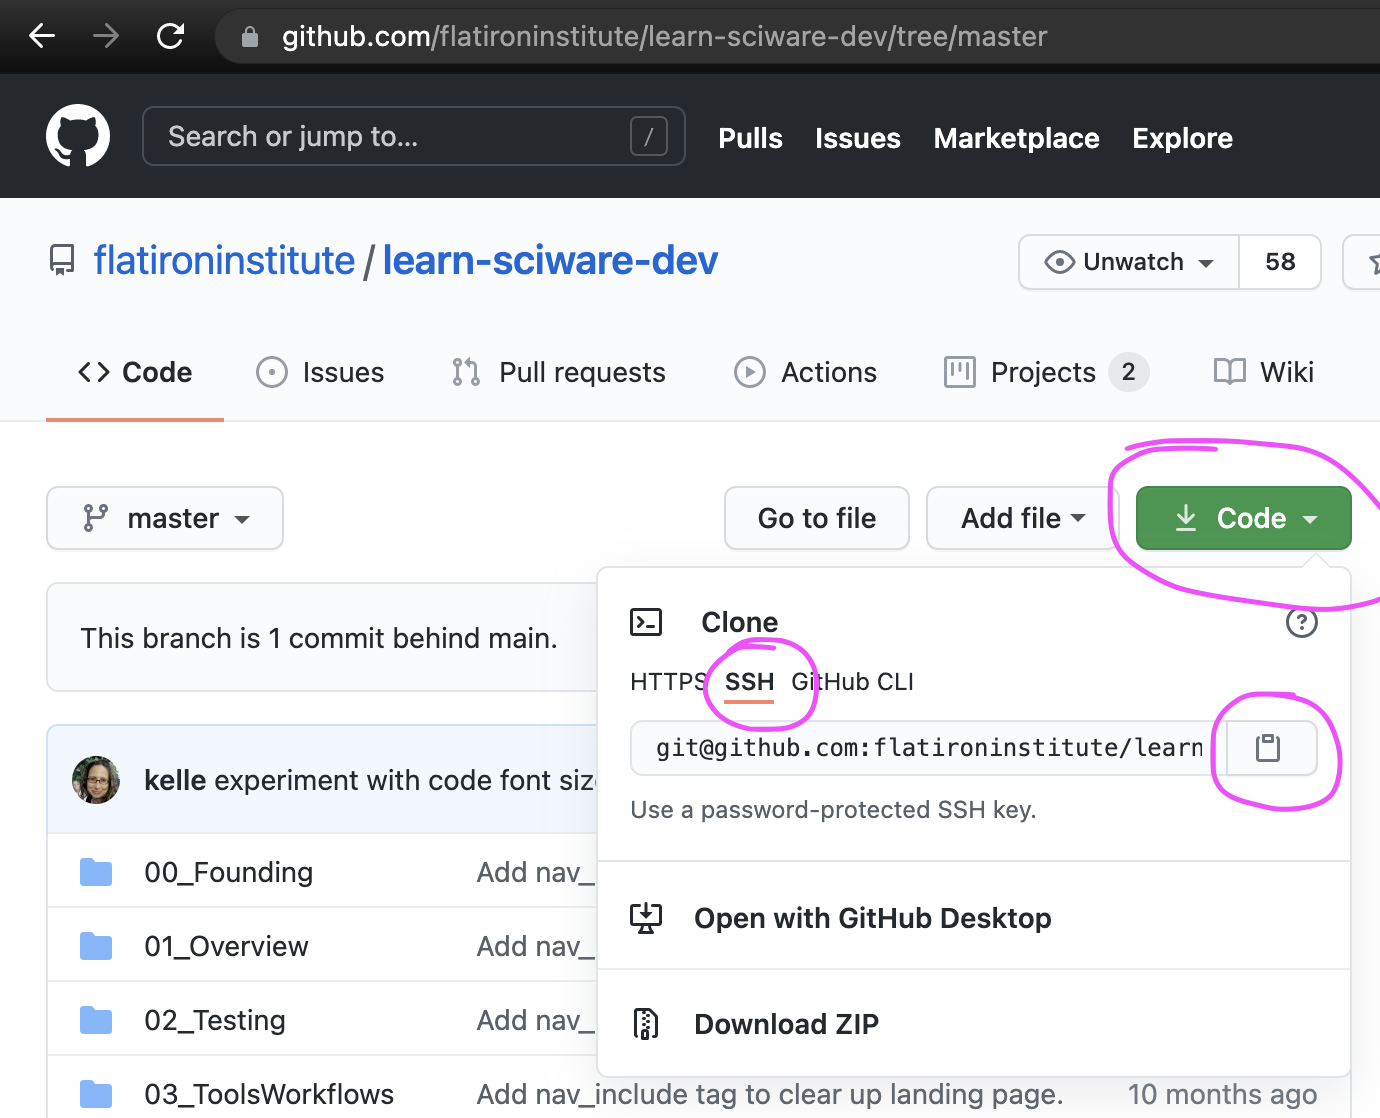
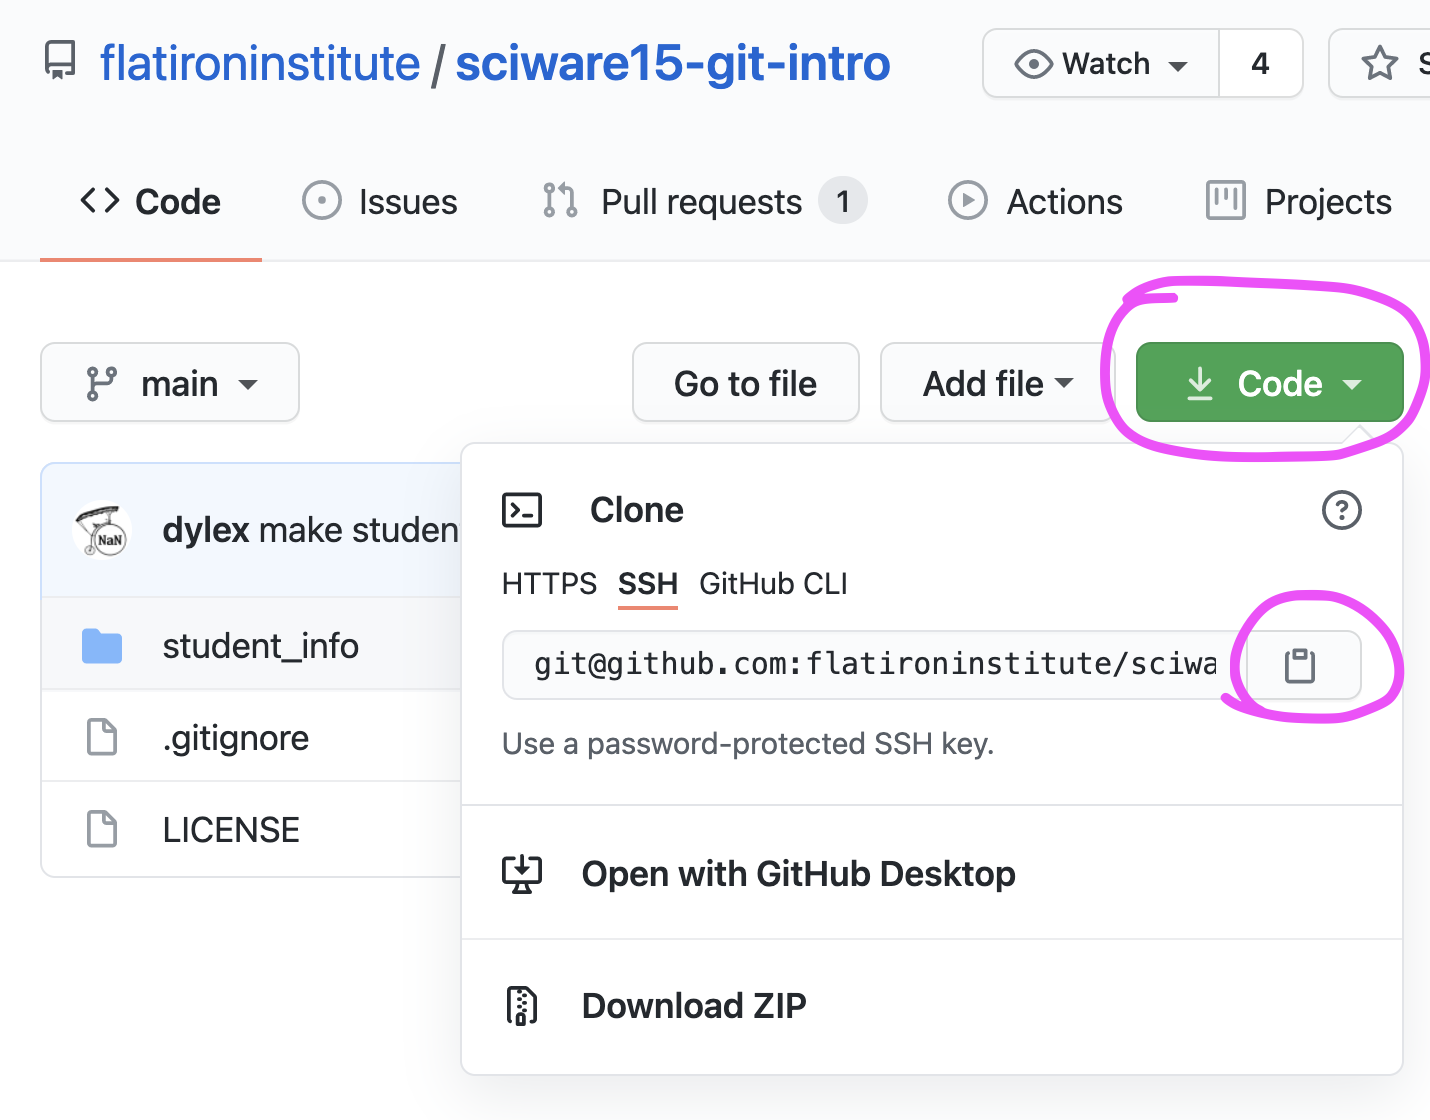
update clone screenshot

diff --git a/15_IntroGithub/day1.md b/15_IntroGithub/day1.md
@@ -128,6 +128,8 @@ git version 2.30.1
 > cat ~/.ssh/id_ed25519.pub
 </code></pre>
 
+It is easiest to leave the password blank.
+
 
 ## Add the SSH key to GitHub
 
@@ -195,7 +197,9 @@ git version 2.30.1
 <div style="display: flex;">
 <img src="assets/Clone.png" alt="Clone button screenshot" style="float: right; margin-right: 5px; height: 450px">
 <ul>
-<li>Go to the repo on the Github website</li>
+<li>Go to the repo on the Github website<ul>
+  <li>https://github.com/flatironinstitute/sciware15-git-intro</li></ul>
+</li>
 <li>Click Green Code button</li>
 <li>Choose SSH tab</li>
 <li>Click the clipboard icon to copy the repo path</li>
